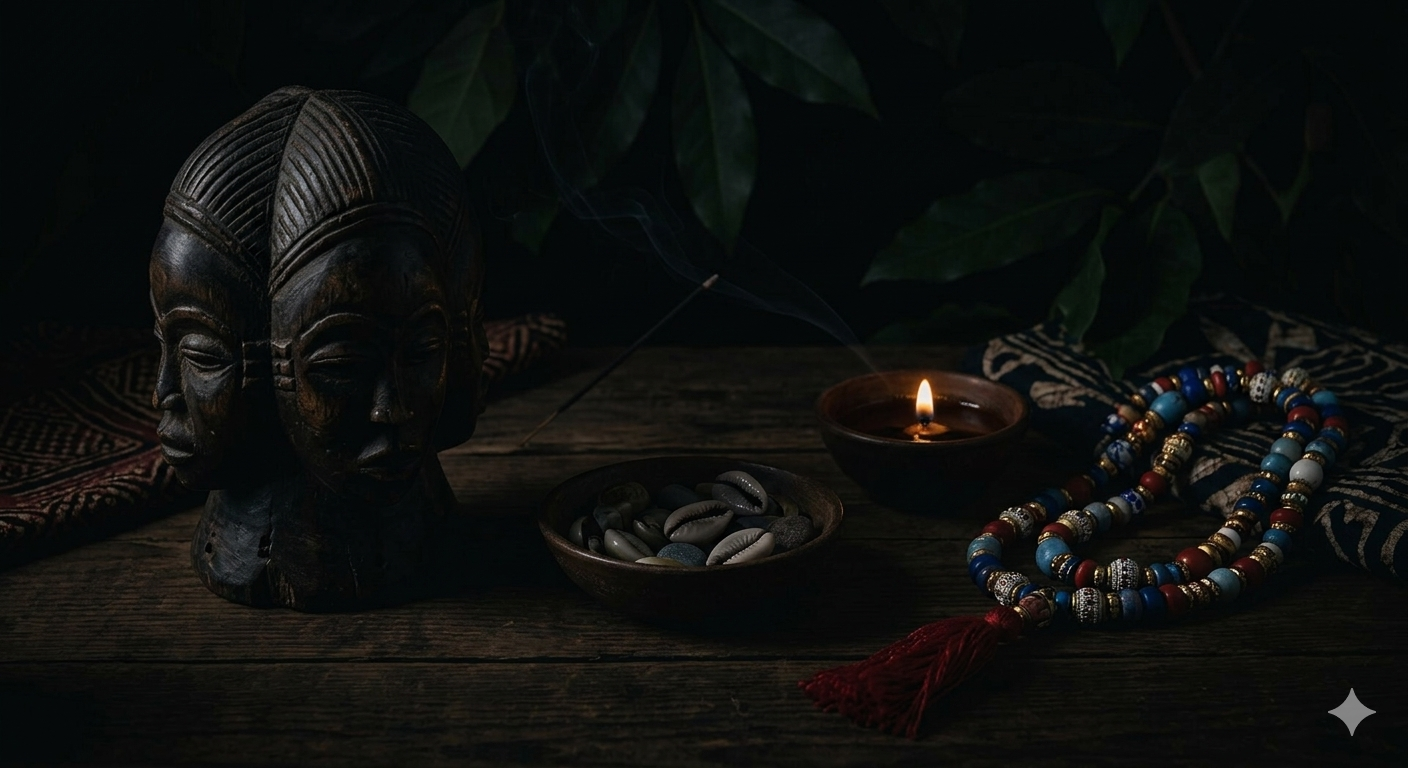
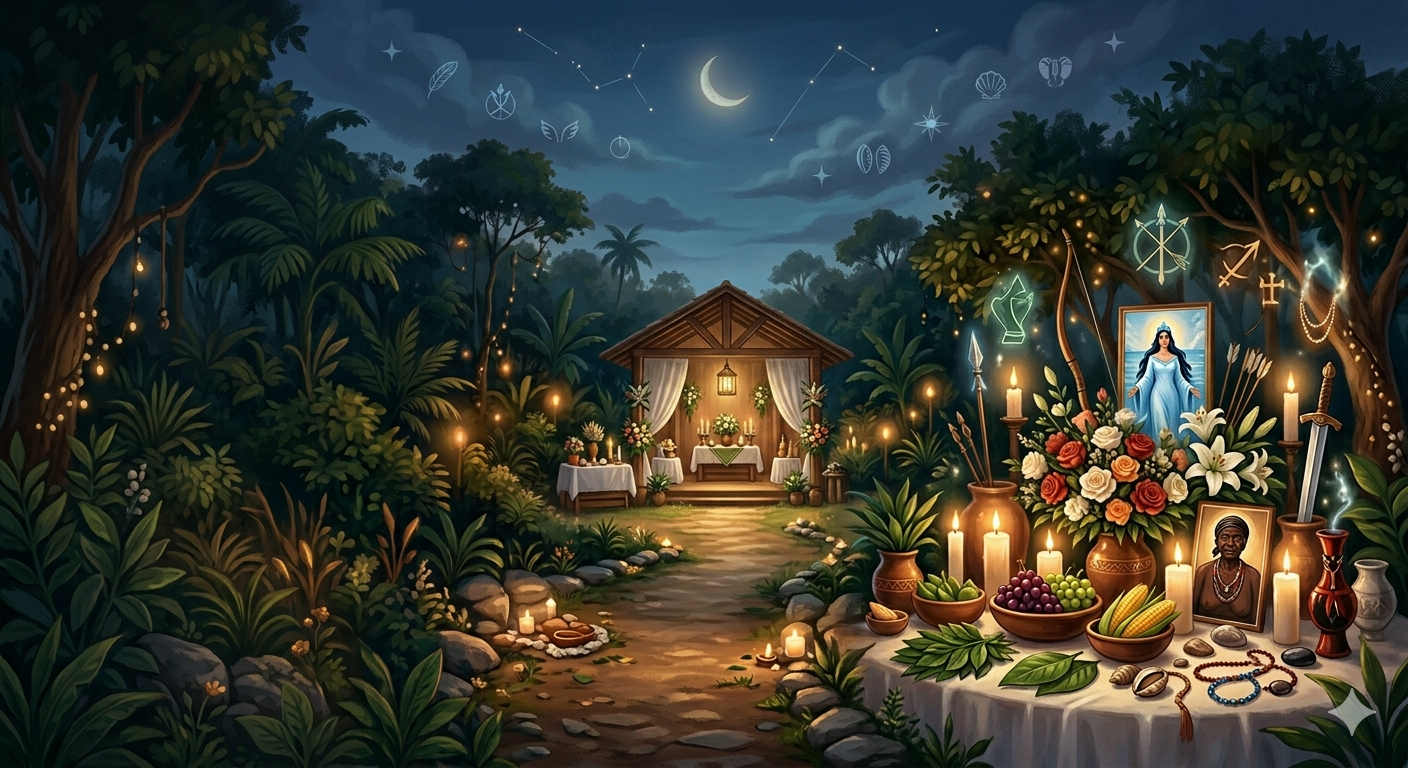
Atualizando o CSS de tudo

diff --git a/dashboard.css b/dashboard.css
@@ -3,12 +3,13 @@ body {
     background-image: url('imgs/fundoDash.png');
     font-family: Arial, Helvetica, sans-serif;
     display: flex;
+    background-attachment: fixed;
 }
 
 .menu {
     width: 200px;
     min-width: 200px;
-    background: #0d2401;
+    background: #091125;
     padding: 30px 20px;
     box-shadow: 3px 0 15px rgba(0, 0, 0, 0.4);
     min-height: 100vh;
@@ -46,7 +47,7 @@ body {
 }
 
 .menu p {
-    color: #7cff5b;
+    color: #547ce1;
     font-size: 12px;
     margin-top: -20px;
     margin-bottom: 30px;
@@ -57,7 +58,7 @@ body {
     padding: 30px;
 
     background: rgba(0, 0, 0, 0.6);
-    backdrop-filter: blur(4px);
+    backdrop-filter: blur(2px);
 }
 
 .container-kpi {
@@ -68,8 +69,9 @@ body {
 
 .kpi {
     flex: 1;
-    background: #0d2401;
+    background: #091125;
     padding: 20px;
+    width: 100px;
     border-radius: 15px;
     box-shadow: 0 5px 10px rgba(0, 0, 0, 0.05);
     color: white;
@@ -83,34 +85,32 @@ body {
 
 .container-graficos {
     display: flex;
+    flex-direction: column;
     gap: 20px;
     margin-bottom: 25px;
 }
 
 .grafico {
-    flex: 1;
-    height: 250px;
-    padding: 15px;
+    height: 350px;
+    width: 1200px;
+    padding: 20px;
+
     color: white;
     position: relative;
     border-radius: 30px;
 }
 
-.grafico canvas {
-    width: 100% !important;
-    height: 100% !important;
-}
 
 .fundamentos {
-    background: linear-gradient(135deg, #1b3d00, #2f7a03);
+    background: linear-gradient(135deg, #091125, #1b2c5c);
 }
 
 .orixa {
-    background: linear-gradient(135deg, #1b2c5c, #4361ee);
+    background: linear-gradient(135deg, #1d012f, #3d0066);
 }
 
 .entidade {
-    background: linear-gradient(135deg, #3d0066, #9d4edd);
+    background: linear-gradient(135deg, #180202, #3a0505);
 }
 
 .baixo {
@@ -122,7 +122,7 @@ body {
 .lista,
 .historico {
     flex: 1;
-    background: #0d2401;
+    background: #091125;
     padding: 20px;
     border-radius: 15px;
     color: white;
@@ -133,7 +133,7 @@ button {
     padding: 10px;
     border: none;
     border-radius: 20px;
-    background: #2f7a03;
+    background: #163584;
     color: white;
     cursor: pointer;
 }

diff --git a/login.css b/login.css
@@ -6,7 +6,7 @@ body {
 
 .header {
     font-family: Arial, Helvetica, sans-serif;
-    background-color: #0d2401;
+    background-color: #091125;
     display: flex;
     align-items: center;
     justify-content: space-between;
@@ -68,7 +68,7 @@ body {
     border-radius: 20px;
     background: rgba(2, 13, 0, 0.7);
     backdrop-filter: blur(15px);
-    border: 1px solid rgba(124, 255, 91, 0.2);
+    border: 1px solid #091125;
     height: 580px;
 
 }
@@ -83,7 +83,7 @@ body {
 }
 
 .lado-esquerdo span {
-    color: #146200;
+    color: #163584;
 }
 
 .texto-login{
@@ -91,7 +91,7 @@ body {
 }
 
 .texto-login h3 {
-    color: #146200;
+    color: #163584;
 }
 
 .itens {
@@ -131,7 +131,7 @@ body {
 }
 
 .opcao-cadastro-login .ativo {
-    background-color:  #2f7a03;
+    background-color:  #163584;
     border-radius: 30px;
 }
 
@@ -171,7 +171,7 @@ body {
 }
 
 .opcoes a:hover{
-    color: #2f7a03;
+    color: #163584;
 }
 
 .botaoEntrar {
@@ -180,7 +180,7 @@ body {
     border: none;
     border-radius: 30px;
 
-    background-color: #2f7a03;
+    background-color: #163584;
     color: white;
     font-weight: bold;
 
@@ -198,5 +198,5 @@ body {
 }
 
 .cadastro a {
-    color: #7cff5b;
+    color: #163584;
 }

diff --git a/style.css b/style.css
@@ -1,12 +1,12 @@
 body {
     margin: 0;
     padding: 0;
-    background-color: #0d2401;
+    background-color: #091125;
 }
 
 .header {
     font-family: Arial, Helvetica, sans-serif;
-    background-color: #0d2401;
+    background-color: #091125;
     display: flex;
     align-items: center;
     justify-content: space-between;
@@ -83,7 +83,7 @@ body {
     font-weight: bold;
     font-size: 16px;
     border: none;
-    background-color: #246302;
+    background-color: #092364;
     color: #fff;
 }
 
@@ -98,13 +98,13 @@ body {
 
 .conteudo {
     margin-bottom: 15px;
-    background-color: #0d2401;
+    background-color: #091125;
     margin-top: 10px;
 }
 
 .explore {
     margin-top: 20px;
-    background-color: #0d2401;
+    background-color: #091125;
 }
 
 .textoConteudo {
@@ -126,7 +126,7 @@ body {
 .box-1,
 .box-2,
 .box-3 {
-    background-color: #133501;
+    background-color: #0b1e50;
     border-radius: 20px;
     padding: 40px;
     width: 250px;
@@ -197,7 +197,7 @@ body {
 
 .footer {
     color: #fff;
-    border-top: #133501 solid 2px;
+    border-top: #040914 solid 2px;
     font-family: Arial, Helvetica, sans-serif;
     display: flex;
     align-items: center;

diff --git a/dashboard.html b/dashboard.html
@@ -98,8 +98,7 @@
                 {
                     label: 'Resultado:',
                     data: [230, 830, 350, 610, 1290, 670],
-                    borderColor: '#7cff5b',
-                    backgroundColor: 'rgba(124, 255, 91, 0.2)',
+                    borderColor: '#4cc9f0',
                     borderDash: [5, 5],
                     borderWidth: 3
                 }
@@ -166,8 +165,7 @@
                 {
                     label: 'Resultado:',
                     data: [230, 830, 350, 610, 1290, 670],
-                    borderColor: '#4cc9f0',
-                    backgroundColor: 'rgba(76, 201, 240, 0.2)',
+                    borderColor: '#c77dff', 
                     borderDash: [5, 5],
                     borderWidth: 3
                 }
@@ -234,8 +232,7 @@
                 {
                     label: 'Resultado:',
                     data: [230, 830, 350, 610, 1290, 670],
-                    borderColor: '#c77dff',
-                    backgroundColor: 'rgba(199, 125, 255, 0.2)',
+                    borderColor: '#FF0000',
                     borderDash: [5, 5],
                     borderWidth: 3
                 }
